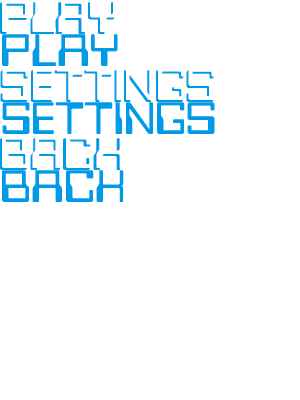
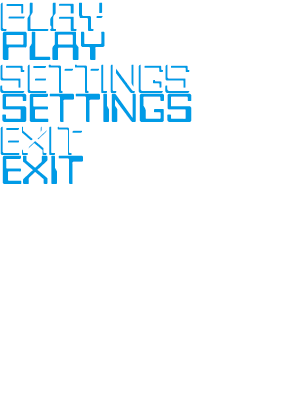
Started to make the game playable for 2 players and corrected minor menu errors

Changed region(s): [[0.0, 0.0, 0.72, 0.51]]

diff --git a/src/projectmayhem/MapHandler.java b/src/projectmayhem/MapHandler.java
@@ -1,5 +1,7 @@
 package projectmayhem;
 
+import java.io.IOException;
+
 import org.newdawn.slick.Animation;
 import org.newdawn.slick.Color;
 import org.newdawn.slick.GameContainer;
@@ -23,6 +25,7 @@ public class MapHandler extends BasicGameState{
 	private float charX, charY, yVelocity, delta;
 	private boolean isJumping, isOnGround, showStats;
 	private Block collisionBlock;
+	private Missile missile;
 	
 	private final float HORISONTAL_VELOCITY = 0.25f;
 	private final float VERTICAL_STARTING_VELOCITY = 1.5f;
@@ -33,6 +36,12 @@ public class MapHandler extends BasicGameState{
 	}
 	
 	public void init(GameContainer gc, StateBasedGame sbg) throws SlickException {
+		try {
+			missile = new Missile("graphics/particles/redblueparticle");
+		} catch (IOException e) {
+			// TODO Auto-generated catch block
+			e.printStackTrace();
+		}
 		map = new TestMap("graphics/maps/test.tmx");
 		
 		left = new SpriteSheet("graphics/characters/moveleft.png", 32, 64);
@@ -46,13 +55,11 @@ public class MapHandler extends BasicGameState{
 		isJumping = false;
 		showStats = true;
 		
-<<<<<<< HEAD
+
 		// SET STABLE FRAMERATE
 		gc.setTargetFrameRate(60);
 		//-------------------------
 
-=======
->>>>>>> ca9d94c0ed41f336e4517ed743c9b196c603babe
 		// DEFINE PLAYER POLY
 		playerPoly = new Polygon(new float[]
 		{charX, charY, 
@@ -64,6 +71,8 @@ public class MapHandler extends BasicGameState{
 		charX = 600; charY = 576-64-32;
 	}
 	public void render(GameContainer gc, StateBasedGame sbg, Graphics g) throws SlickException {
+		missile.getParticle().render();
+		
 		// RENDER CHARACTER AND MAP
 		TestMap.testMap.render(0, 0);
 		character.draw(charX, charY);
@@ -132,11 +141,8 @@ public class MapHandler extends BasicGameState{
 		if(input.isKeyPressed(Input.KEY_UP) && isJumping == false){ //you can jump as long as you're not airborne
 			isJumping = true;
 			//isOnGround = false;
-<<<<<<< HEAD
 			yVelocity = VERTICAL_STARTING_VELOCITY;
-=======
 			yVelocity = 2.0f;
->>>>>>> ca9d94c0ed41f336e4517ed743c9b196c603babe
 		}
 		// STARTS THE JUMP LOOP
 		if(isJumping){
@@ -168,11 +174,8 @@ public class MapHandler extends BasicGameState{
 			playerPoly.setY(charY);
 		} // IF NOT, ACCELERATE DOWNWARD
 		else if(isJumping == false){ 
-<<<<<<< HEAD
 			yVelocity += VERTICAL_GRAVITY*delta;
-=======
 			yVelocity += 0.01f*delta;
->>>>>>> ca9d94c0ed41f336e4517ed743c9b196c603babe
 			charY += yVelocity*delta;
 			playerPoly.setY(charY);
 		}

diff --git a/src/projectmayhem/MainMenu.java b/src/projectmayhem/MainMenu.java
@@ -14,7 +14,7 @@ public class MainMenu extends BasicGameState {
 	public static int ID;
 	
 	Image mainmenubuttons;
-	Button play, settings, back;
+	Button play, settings, exit;
 
 	public MainMenu(int ID) {
 		this.ID = ID;
@@ -23,12 +23,14 @@ public class MainMenu extends BasicGameState {
 	public void init(GameContainer gc, StateBasedGame sbg) throws SlickException {
 		mainmenubuttons = new Image("graphics/buttons/mainmenu.png");
 		
-		play = new Button(mainmenubuttons.getSubImage(0, 0, 117, 34),
-				mainmenubuttons.getSubImage(0, 34, 117, 34),
+		play = new Button(mainmenubuttons.getSubImage(0, 0, 106, 31),
+				mainmenubuttons.getSubImage(0, 31, 105, 31),
 				Button.MID(), Button.MID(), gc);
-		settings = new Button(mainmenubuttons.getSubImage(0, 68, 216, 34), mainmenubuttons.getSubImage(0, 102, 216, 34), Button.MID(),
+		settings = new Button(mainmenubuttons.getSubImage(0, 62, 192, 31), 
+				mainmenubuttons.getSubImage(0, 93, 192, 31), Button.MID(),
 				0, Button.MID(), 90, gc);
-		back = new Button(mainmenubuttons.getSubImage(0, 136, 132, 34), mainmenubuttons.getSubImage(0, 170, 132, 34), Button.MID(),
+		exit = new Button(mainmenubuttons.getSubImage(0, 124, 83, 31), 
+				mainmenubuttons.getSubImage(0, 155, 83, 31), Button.MID(),
 				0, Button.MID(), 180, gc);
 	}
 
@@ -36,7 +38,7 @@ public class MainMenu extends BasicGameState {
 			throws SlickException {
 		play.getGraphics().draw(play.getX(), play.getY());
 		settings.getGraphics().draw(settings.getX(), settings.getY());
-		back.getGraphics().draw(back.getX(),back.getY());
+		exit.getGraphics().draw(exit.getX(),exit.getY());
 	}
 	public void update(GameContainer gc, StateBasedGame sbg, int delta) throws SlickException {
 		if (settings.isClicked()) {
@@ -46,7 +48,7 @@ public class MainMenu extends BasicGameState {
 		if(play.isClicked()){
 			sbg.enterState(2);
 		}
-		if(back.isClicked()){
+		if(exit.isClicked()){
 			gc.exit();
 		}
 	}

diff --git a/src/projectmayhem/Missile.java b/src/projectmayhem/Missile.java
@@ -1,12 +1,17 @@
 package projectmayhem;
 
+import java.io.IOException;
+
 import org.newdawn.slick.Animation;
 import org.newdawn.slick.Image;
+import org.newdawn.slick.particles.ParticleIO;
+import org.newdawn.slick.particles.ParticleSystem;
 
 public class Missile {
 	
 	private Image alive, death, active;
 	private Animation aliveAnim, deathAnim;
+	private ParticleSystem particleSystem;
 	private boolean isAlive;
 	private float x, y;
 	
@@ -17,6 +22,13 @@ public class Missile {
 	public Missile(Animation alive, Animation death){
 		aliveAnim = alive;
 		deathAnim = death;
+	}
+	public Missile(String path) throws IOException{
+		particleSystem = ParticleIO.loadConfiguredSystem(path);
+	}
+	
+	public ParticleSystem getParticle(){
+		return particleSystem;
 	}
 	
 	public Image getImage(){
